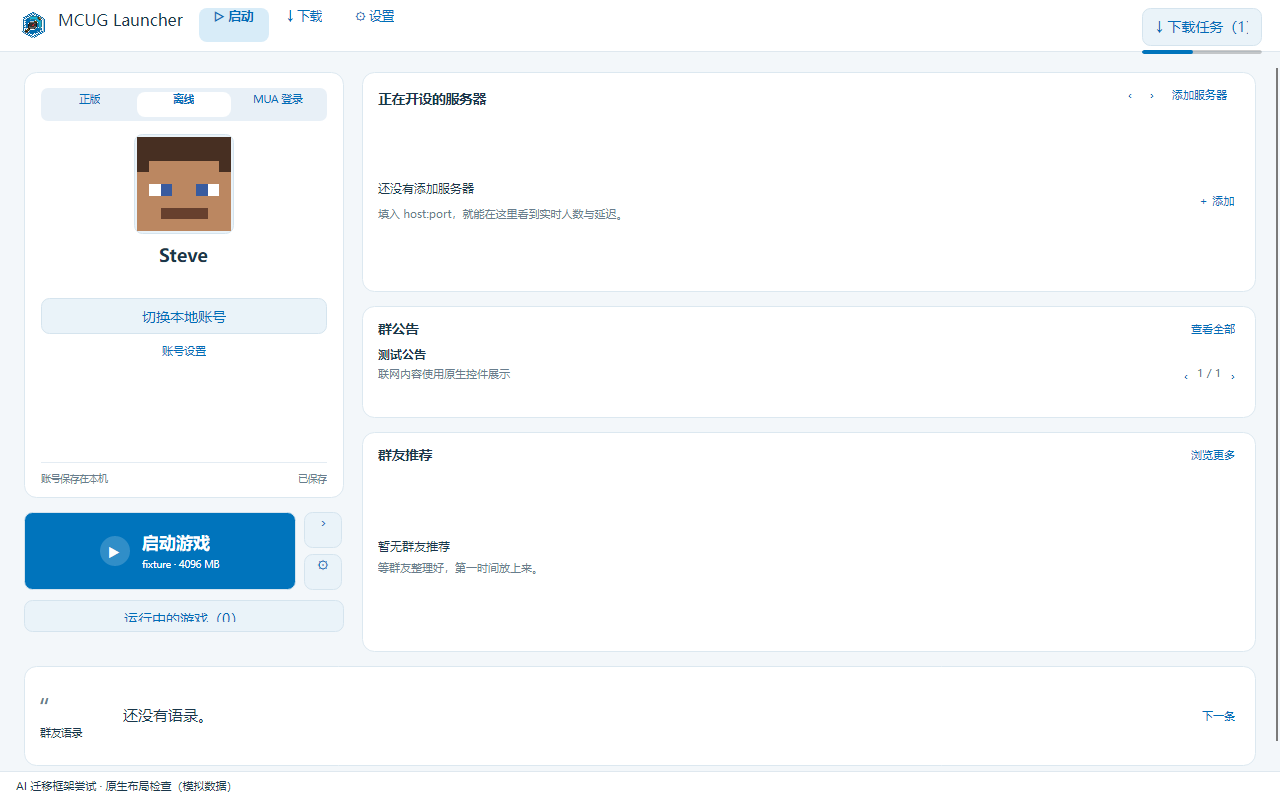
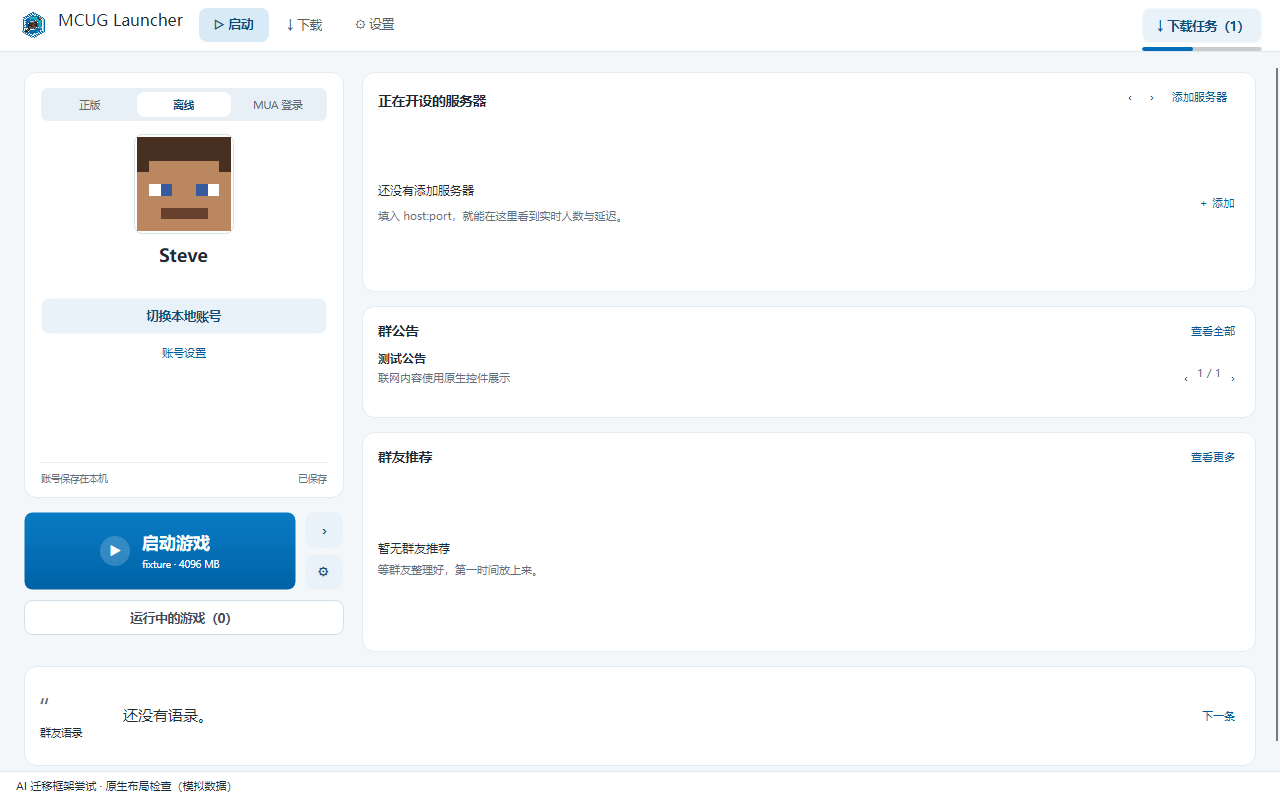
fix: match codex button labels and visual state palette

diff --git a/test/NativeUiChecks/Program.cs b/test/NativeUiChecks/Program.cs
@@ -234,11 +234,14 @@ internal static class Program
             Check(window.GetVisualDescendants().OfType<NativePage>().Any(), "native route " + entry.Id);
         }
         await CodexParity(window);
+        await ButtonAppearance();
         window.Navigate("sources");
         await Task.Delay(20);
         Check(Find(window, "已使用默认源").IsEnabled == false, "default source active status");
+        Check(Find(window, "默认源").Classes.Contains("primary"), "source tab selection uses original primary-button role");
         var before = Sent.Count(i => i.GetProperty("type").GetString() == "testSource");
         await Click(Find(window, "自定义源"));
+        Check(Find(window, "自定义源").Classes.Contains("primary") && !Find(window, "默认源").Classes.Contains("primary"), "source tab visual selection follows the visible page");
         Check(Sent.Count(i => i.GetProperty("type").GetString() == "testSource") == before + 4, "tab entry automatically tests all four sources");
         var boxes = Controls<TextBox>(window).ToArray();
         boxes[0].Text = "https://example.org/custom.json";
@@ -305,7 +308,16 @@ internal static class Program
             frame!.Save("work/native-ui/sources.png");
         window.Navigate("mod");
         await Task.Delay(25);
-        await Click(Find(window, "搜索 / 刷新"));
+        await Click(Find(window, "搜索"));
+        await Click(Find(window, "♡"));
+        Check(Sent.Last().GetProperty("type").GetString() == "toggleBookmark", "heart button preserves the existing bookmark command");
+        var snapshot = JsonSerializer.SerializeToNode(Session.State with
+        {
+            Favorites = [new NativeItem { Id = "sodium", Kind = "mod", Name = "Sodium" }]
+        }, Json)!;
+        snapshot["type"] = "state";
+        Session.Receive(snapshot.ToJsonString());
+        Check(Find(window, "♥") != null, "filled heart follows confirmed favorite state");
         using (var frame = window.CaptureRenderedFrame())
             frame!.Save("work/native-ui/catalog.png");
         window.Navigate("home");
@@ -319,6 +331,46 @@ internal static class Program
             frame!.Save("work/native-ui/instance-panel.png");
         window.Close();
         Console.WriteLine("ALL_NATIVE_UI_CHECKS_PASSED (headless native controls and simulated application responses; no live account/game)");
+    }
+    static async Task ButtonAppearance()
+    {
+        var activations = 0;
+        var primary = Ui.Button("主要操作", () => { activations++; return Task.CompletedTask; }, true);
+        var child = Ui.Text("按钮内嵌文字");
+        primary.Content = child;
+        var ghost = Ui.Action("普通操作", () => { });
+        var soft = Ui.Action("次要操作", () => { });
+        soft.Classes.Add("soft");
+        var link = Ui.Action("文字链接", () => { });
+        link.Classes.Add("link");
+        var dialog = new Window { Width = 520, Height = 280, Content = Ui.Stack(primary, ghost, soft, link) };
+        dialog.Show();
+        await Task.Delay(30);
+        static bool Color(global::Avalonia.Media.IBrush? brush, string expected) => brush is global::Avalonia.Media.ISolidColorBrush solid && solid.Color == global::Avalonia.Media.Color.Parse(expected);
+        Check(Color(ghost.Background, "#FFFFFF") && Color(ghost.Foreground, "#414B55"), "ordinary buttons preserve white background and gray text");
+        Check(Color(soft.Background, "#E8F2F8") && Color(soft.Foreground, "#0B4F7A"), "soft buttons use original tint and deep-blue text");
+        Check(Color(primary.Background, "#006DB8") && Color(child.Foreground, "#FFFFFF"), "primary button text inherits white even inside custom content");
+        using (var frame = dialog.CaptureRenderedFrame())
+            frame!.Save("work/native-ui/button-states.png");
+        var point = primary.TranslatePoint(new Point(10, 10), dialog)!.Value;
+        dialog.MouseMove(point);
+        await Task.Delay(20);
+        Check(Color(primary.Background, "#2C6193") && Color(child.Foreground, "#FFFFFF"), "primary hover keeps original blue and white text");
+        using (var frame = dialog.CaptureRenderedFrame())
+            frame!.Save("work/native-ui/button-hover.png");
+        dialog.MouseDown(point, global::Avalonia.Input.MouseButton.Left);
+        await Task.Delay(20);
+        Check(Color(primary.Background, "#005A99"), "primary pressed state avoids Fluent default gray");
+        dialog.MouseUp(point, global::Avalonia.Input.MouseButton.Left);
+        await Task.Delay(20);
+        Check(activations == 1, "isolated button theme preserves real mouse activation");
+        dialog.MouseMove(new Point(510, 260));
+        primary.IsEnabled = false;
+        await Task.Delay(20);
+        Check(Color(primary.Background, "#ACC3D9") && Color(child.Foreground, "#FFFFFF"), "disabled primary keeps the original pale-blue and white palette");
+        using (var frame = dialog.CaptureRenderedFrame())
+            frame!.Save("work/native-ui/button-disabled.png");
+        dialog.Close();
     }
     static void CheckHomeGeometry(ShellWindow window)
     {

diff --git a/src/MCUGLauncher.Avalonia/Views/DownloadPage.cs b/src/MCUGLauncher.Avalonia/Views/DownloadPage.cs
@@ -9,6 +9,7 @@ internal sealed class DownloadPage : NativePage
     readonly TextBox game = Ui.Input("", "游戏版本（留空不限）");
     readonly ComboBox loader = Ui.Select(new[] { "", "fabric", "forge", "neoforge", "quilt" });
     readonly StackPanel results = Ui.Stack();
+    readonly Dictionary<string, Button> bookmarkButtons = [];
     readonly global::Avalonia.Controls.Primitives.UniformGrid cards = new() { Columns = 1 };
     public DownloadPage(LauncherFacade session, string category) : base(session)
     {
@@ -28,7 +29,7 @@ internal sealed class DownloadPage : NativePage
         };
         Title(label, "发现并下载 Minecraft " + label + "。");
         query.MinWidth = 0;
-        Body.Children.Add(Ui.Beside(query, Ui.Button("搜索 / 刷新", Search, true)));
+        Body.Children.Add(Ui.Beside(query, Ui.Button(category == "vanilla" ? "刷新列表" : "搜索", Search, true)));
         if (category != "vanilla")
         {
             var filters = Ui.Row(Ui.Field("游戏版本", game));
@@ -62,14 +63,18 @@ internal sealed class DownloadPage : NativePage
             }, m => m.RequestId == request);
             results.Children.Clear();
             cards.Children.Clear();
+            bookmarkButtons.Clear();
             foreach (var item in response.Items.Where(i => category != "vanilla" || i.Id.Contains(query.Text ?? "", StringComparison.OrdinalIgnoreCase)))
             {
+                var bookmark = Ui.Button("♡", () => Send(new { type = "toggleBookmark", id = item.Id, name = item.Name, description = item.Description, author = item.Author, kind = category }));
+                bookmark.Classes.Add("bookmark");
+                bookmarkButtons[item.Id] = bookmark;
                 var buttons = category == "vanilla" ? Ui.Row(
                     Ui.Button("安装", () => Send(new { type = "installVanilla", version = item.Id }), true),
                     Ui.Button("配置加载器", () => InstallDialogs.Loader(Session, Owner, item.Id))
                 ) : Ui.Row(
-                    Ui.Button("详情与下载", () => ResourceDialog.Open(Session, Owner, item, category), true),
-                    Ui.Button("收藏 / 取消收藏", () => Send(new { type = "toggleBookmark", id = item.Id, name = item.Name, description = item.Description, author = item.Author, kind = category }))
+                    Ui.Button(category == "modpack" ? "下载整合包" : "下载", () => ResourceDialog.Open(Session, Owner, item, category), true),
+                    bookmark
                 );
                 var card = Ui.Card(Ui.Stack(
                             Ui.Row(
@@ -83,6 +88,7 @@ internal sealed class DownloadPage : NativePage
                 card.Margin = new global::Avalonia.Thickness(0, 0, 12, 12);
                 cards.Children.Add(card);
             }
+            RefreshBookmarks();
             if (cards.Children.Count == 0)
                 results.Children.Add(Ui.Text("没有匹配的结果，请调整条件。"));
             else
@@ -93,5 +99,20 @@ internal sealed class DownloadPage : NativePage
             results.Children.Clear();
             results.Children.Add(Ui.Text("获取失败：" + ex.Message));
         }
+    }
+    void RefreshBookmarks()
+    {
+        foreach (var (id, button) in bookmarkButtons)
+        {
+            var active = State.Favorites.Any(f => f.Id == id && f.Kind == category);
+            button.Content = active ? "♥" : "♡";
+            ToolTip.SetTip(button, active ? "取消收藏" : "添加收藏");
+            global::Avalonia.Automation.AutomationProperties.SetName(button, active ? "取消收藏" : "添加收藏");
+        }
+    }
+    protected override void Receive(NativeMessage message)
+    {
+        if (message.Type == "state")
+            RefreshBookmarks();
     }
 }

diff --git a/src/MCUGLauncher.Avalonia/Views/AccountDialogs.cs b/src/MCUGLauncher.Avalonia/Views/AccountDialogs.cs
@@ -16,7 +16,7 @@ internal static class AccountDialogs
         return Ui.Show(owner, "正版账号登录", Ui.Stack(
             Ui.Heading("正版账号登录"),
             Ui.Text("使用 Microsoft 账号完成正版验证。启动器不保存密码，只保留授权会话。"),
-            Ui.Button("打开 Microsoft 登录", () => session.SendAsync(new { type = "loginMicrosoft" }), true)), 480, 320);
+            Ui.Button("打开登录窗口", () => session.SendAsync(new { type = "loginMicrosoft" }), true)), 480, 320);
     }
     static Task Mua(LauncherFacade session, Window owner)
     {
@@ -24,7 +24,7 @@ internal static class AccountDialogs
         var password = Ui.Input("", "密码");
         password.PasswordChar = '●';
         var content = Ui.Stack(Ui.Heading("MUA 登录"), user, password);
-        content.Children.Add(Ui.Button("登录", async () =>
+        content.Children.Add(Ui.Button("登录 MUA", async () =>
         {
             var secret = password.Text ?? "";
             password.Text = "";
@@ -55,10 +55,10 @@ internal static class AccountDialogs
     {
         var preview = Ui.Avatar(session.Avatar, 96);
         var content = Ui.Stack(Ui.Heading("皮肤与披风"), preview, Ui.Text(session.State.Player + " · " + session.State.AccountLabel));
-        content.Children.Add(Ui.Button("读取当前账号皮肤", () => session.SendAsync(new { type = "readAvatar" })));
+        content.Children.Add(Ui.Button("重新读取皮肤", () => session.SendAsync(new { type = "readAvatar" })));
         if (session.State.AccountType == "offline")
         {
-            content.Children.Add(Ui.Button("选择本地 PNG", async () =>
+            content.Children.Add(Ui.Button("选择本地 PNG 皮肤", async () =>
             {
                 var path = await FilePicker.Open((Window)TopLevel.GetTopLevel(content)!, "PNG 皮肤", "*.png");
                 if (path != null)
@@ -67,8 +67,8 @@ internal static class AccountDialogs
                         type = "setOfflineSkin",
                         path
                     });
-            }));
-            content.Children.Add(Ui.Button("恢复史蒂夫", () => session.SendAsync(new { type = "setOfflineSkin", path = "" })));
+            }, true));
+            content.Children.Add(Ui.Button("恢复默认头像", () => session.SendAsync(new { type = "setOfflineSkin", path = "" })));
         }
         content.Children.Add(Ui.Text("本地皮肤仅用于启动器头像；正版/MUA 皮肤来自认证站。披风上传原后端尚未接入。"));
         void Update(NativeMessage message)

diff --git a/src/MCUGLauncher.Avalonia/Views/HomePage.cs b/src/MCUGLauncher.Avalonia/Views/HomePage.cs
@@ -105,6 +105,7 @@ internal sealed class HomePage : NativePage
         var change = Ui.Button(State.AccountType == "offline" ? "切换本地账号" : "切换账号", () => AccountDialogs.Open(Session, Owner, State.AccountType));
         change.HorizontalAlignment = global::Avalonia.Layout.HorizontalAlignment.Stretch;
         change.HorizontalContentAlignment = global::Avalonia.Layout.HorizontalAlignment.Center;
+        change.Classes.Add("soft");
         change.Height = 36;
         change.Margin = new Thickness(0, 14, 0, 0);
         details.Children.Add(change);
@@ -135,6 +136,7 @@ internal sealed class HomePage : NativePage
         detail.TextWrapping = global::Avalonia.Media.TextWrapping.NoWrap;
         detail.TextTrimming = global::Avalonia.Media.TextTrimming.CharacterEllipsis;
         detail.MaxWidth = 160;
+        detail.FontWeight = global::Avalonia.Media.FontWeight.Normal;
         var text = Ui.Stack(title, detail);
         text.Spacing = 4;
         var content = new StackPanel
@@ -162,6 +164,7 @@ internal sealed class HomePage : NativePage
         button.Content = content;
         button.HorizontalContentAlignment = global::Avalonia.Layout.HorizontalAlignment.Center;
         button.IsEnabled = State.SelectedVersion.Length > 0;
+        button.Classes.Add("launch");
         button.Height = 78;
         button.Name = "HomeLaunchButton";
         button.HorizontalAlignment = global::Avalonia.Layout.HorizontalAlignment.Stretch;
@@ -171,6 +174,7 @@ internal sealed class HomePage : NativePage
         actions.Spacing = 6;
         foreach (var action in actions.Children.OfType<Button>())
         {
+            action.Classes.Add("soft");
             action.Height = 36;
             action.Width = 38;
             action.Padding = default;

diff --git a/src/MCUGLauncher.Avalonia/Views/CommunityPage.cs b/src/MCUGLauncher.Avalonia/Views/CommunityPage.cs
@@ -8,6 +8,7 @@ internal sealed class CommunityPage : NativePage
     readonly StackPanel entries = Ui.Stack();
     readonly bool recommendationsOnly;
     readonly string? onlyFeed;
+    readonly Dictionary<string, Button> categoryTabs = [];
     string recommendationType = "server";
     public CommunityPage(LauncherFacade session, bool recommendationsOnly = false, string? onlyFeed = null) : base(session)
     {
@@ -22,7 +23,12 @@ internal sealed class CommunityPage : NativePage
         {
             var tabs = Ui.Row();
             foreach (var (label, kind) in new[] { ("服务器", "server"), ("材质包", "material"), ("光影", "shader") })
-                tabs.Children.Add(Ui.Action(label, () => { recommendationType = kind; Draw(); }));
+            {
+                var tab = Ui.Action(label, () => { recommendationType = kind; Draw(); });
+                tab.Classes.Add("account-tab");
+                categoryTabs[kind] = tab;
+                tabs.Children.Add(tab);
+            }
             Body.Children.Add(tabs);
         }
         Body.Children.Add(entries);
@@ -32,6 +38,8 @@ internal sealed class CommunityPage : NativePage
     void Draw()
     {
         entries.Children.Clear();
+        foreach (var (kind, tab) in categoryTabs)
+            tab.Classes.Set("active", kind == recommendationType);
         foreach (var key in (onlyFeed != null ? new[] { onlyFeed } : recommendationsOnly ? new[] { "recommendations" } : new[]
             {
                 "announcements",

diff --git a/src/MCUGLauncher.Avalonia/Views/SourcesPage.cs b/src/MCUGLauncher.Avalonia/Views/SourcesPage.cs
@@ -12,16 +12,17 @@ internal sealed class SourcesPage : NativePage
     readonly Dictionary<string, (string Id, string Url)> requests = [];
     readonly Dictionary<string, string> draft;
     readonly Button use;
+    readonly Button defaultTab;
+    readonly Button customTab;
     string mode = "default";
     public SourcesPage(LauncherFacade session) : base(session)
     {
         draft = Values(State.CustomDataSources);
         Title("数据源设置", "进入页面或切换页签自动测试，也可逐项手动测试。保存与使用分开。");
         use = Ui.Button("使用默认源", () => Send(new { type = "useDataSources", mode }), true);
-        Body.Children.Add(Ui.Row(
-                Ui.Action("默认源", () => Switch("default")),
-                Ui.Action("自定义源", () => Switch("custom"))
-        ));
+        defaultTab = Ui.Action("默认源", () => Switch("default"));
+        customTab = Ui.Action("自定义源", () => Switch("custom"));
+        Body.Children.Add(Ui.Row(defaultTab, customTab));
         Body.Children.Add(rows);
         Switch(mode);
     }
@@ -38,6 +39,8 @@ internal sealed class SourcesPage : NativePage
         if (use.Parent is Panel parent)
             parent.Children.Remove(use);
         mode = next;
+        defaultTab.Classes.Set("primary", mode == "default");
+        customTab.Classes.Set("primary", mode == "custom");
         rows.Children.Clear();
         results.Clear();
         requests.Clear();

diff --git a/src/MCUGLauncher.Avalonia/Views/InstancePickerView.cs b/src/MCUGLauncher.Avalonia/Views/InstancePickerView.cs
@@ -60,6 +60,7 @@ internal sealed class InstancePickerView : NativePage
                 var selection = Ui.Button(item.Title + "\n" + item.Minecraft + " · " + item.Loader, () => Select(item));
                 selection.HorizontalAlignment = global::Avalonia.Layout.HorizontalAlignment.Stretch;
                 selection.HorizontalContentAlignment = global::Avalonia.Layout.HorizontalAlignment.Left;
+                selection.Classes.Add("instance-row");
                 selection.Classes.Set("instance-selected", item.Name == State.SelectedVersion);
                 var row = new Grid { ColumnDefinitions = new ColumnDefinitions("*,40,40"), ColumnSpacing = 5 };
                 row.Children.Add(selection);

diff --git a/src/MCUGLauncher.Avalonia/Views/Ui.cs b/src/MCUGLauncher.Avalonia/Views/Ui.cs
@@ -59,7 +59,7 @@ internal static class Ui
     public static TextBlock Muted(string text, double size = 11)
     {
         var block = Text(text, size);
-        block.Foreground = Brush.Parse("#687D8D");
+        block.Foreground = Brush.Parse("#5F717D");
         return block;
     }
     public static Border Card(Control child) => new()
@@ -68,7 +68,7 @@ internal static class Ui
         Padding = new(18),
         CornerRadius = new(12),
         Background = Brushes.White,
-        BorderBrush = Brush.Parse("#DCE8F0"),
+        BorderBrush = Brush.Parse("#E3EAF0"),
         BorderThickness = new(1),
         Margin = new(0, 0, 0, 12)
     };

diff --git a/src/MCUGLauncher.Avalonia/ShellWindow.axaml.cs b/src/MCUGLauncher.Avalonia/ShellWindow.axaml.cs
@@ -36,6 +36,7 @@ public partial class ShellWindow : Window
             TopNavigation.Children.Add(button);
         }
         TaskButton.Click += (_, _) => Navigate("tasks");
+        TaskButton.Classes.Add("soft");
         Opened += async (_, _) => { if (injected == null) await session.SendAsync(new { type = "ready" }); };
         Closed += (_, _) => { session.RememberWindow(Width, Height, WindowState == WindowState.Maximized); page?.Dispose(); session.PropertyChanged -= Changed; session.MessageReceived -= OnMessage; session.Dispose(); };
         Navigate("home");

diff --git a/src/MCUGLauncher.Avalonia/Views/HomeFeedPanel.cs b/src/MCUGLauncher.Avalonia/Views/HomeFeedPanel.cs
@@ -127,7 +127,7 @@ internal sealed class HomeFeedPanel : NativePage
     Grid Recommendations()
     {
         var panel = new Grid { RowDefinitions = new RowDefinitions("Auto,*"), RowSpacing = 10 };
-        panel.Children.Add(Header("群友推荐", Link("浏览更多", () => Session.Navigate?.Invoke("community"))));
+        panel.Children.Add(Header("群友推荐", Link("查看更多", () => Session.Navigate?.Invoke("community"))));
         var rows = Ui.Stack();
         rows.Spacing = 6;
         foreach (var entry in Entries("recommendations").Take(3))

diff --git a/docs/CODE_STYLE_REVIEW.md b/docs/CODE_STYLE_REVIEW.md
@@ -62,3 +62,8 @@ ResourceChoiceCommands、LaunchOptionsCommands、MuaProfileSelection、AvatarCom
 ## UI 对齐修订
 
 本轮只调整 Views、主题与壳的展示参数，继续采用 0.22.3-Avalonia 的职责划分。网格布局留在各功能视图；Ui.Beside 只归纳多个页面共同使用的“弹性内容 + 右侧操作”布局，不创建新的业务管理器。分组折叠、窄窗换行是视图状态；下载目标、资源令牌、数据源保存/启用仍走原协议。未修改 App/Core 或引入后端依赖。SourceFormatter 和边界检查之外，实际查看了几何断言及渲染截图。
+
+
+## 按钮角色与状态修订
+
+按钮颜色和状态统一定义在 Theme.axaml，不在点击事件里硬改背景。页面只指定 primary/soft/link/nav/account-tab/bookmark 等展示角色；Favorites、源模式和推荐类别驱动选中态。共享 Button ControlTheme 只控制呈现，不承载账号、配置或下载逻辑。App/Core 及依赖登记表不变，原协议兼容。实际鼠标状态回归用于避免只检查按钮外层属性而漏掉内部文字覆盖。
